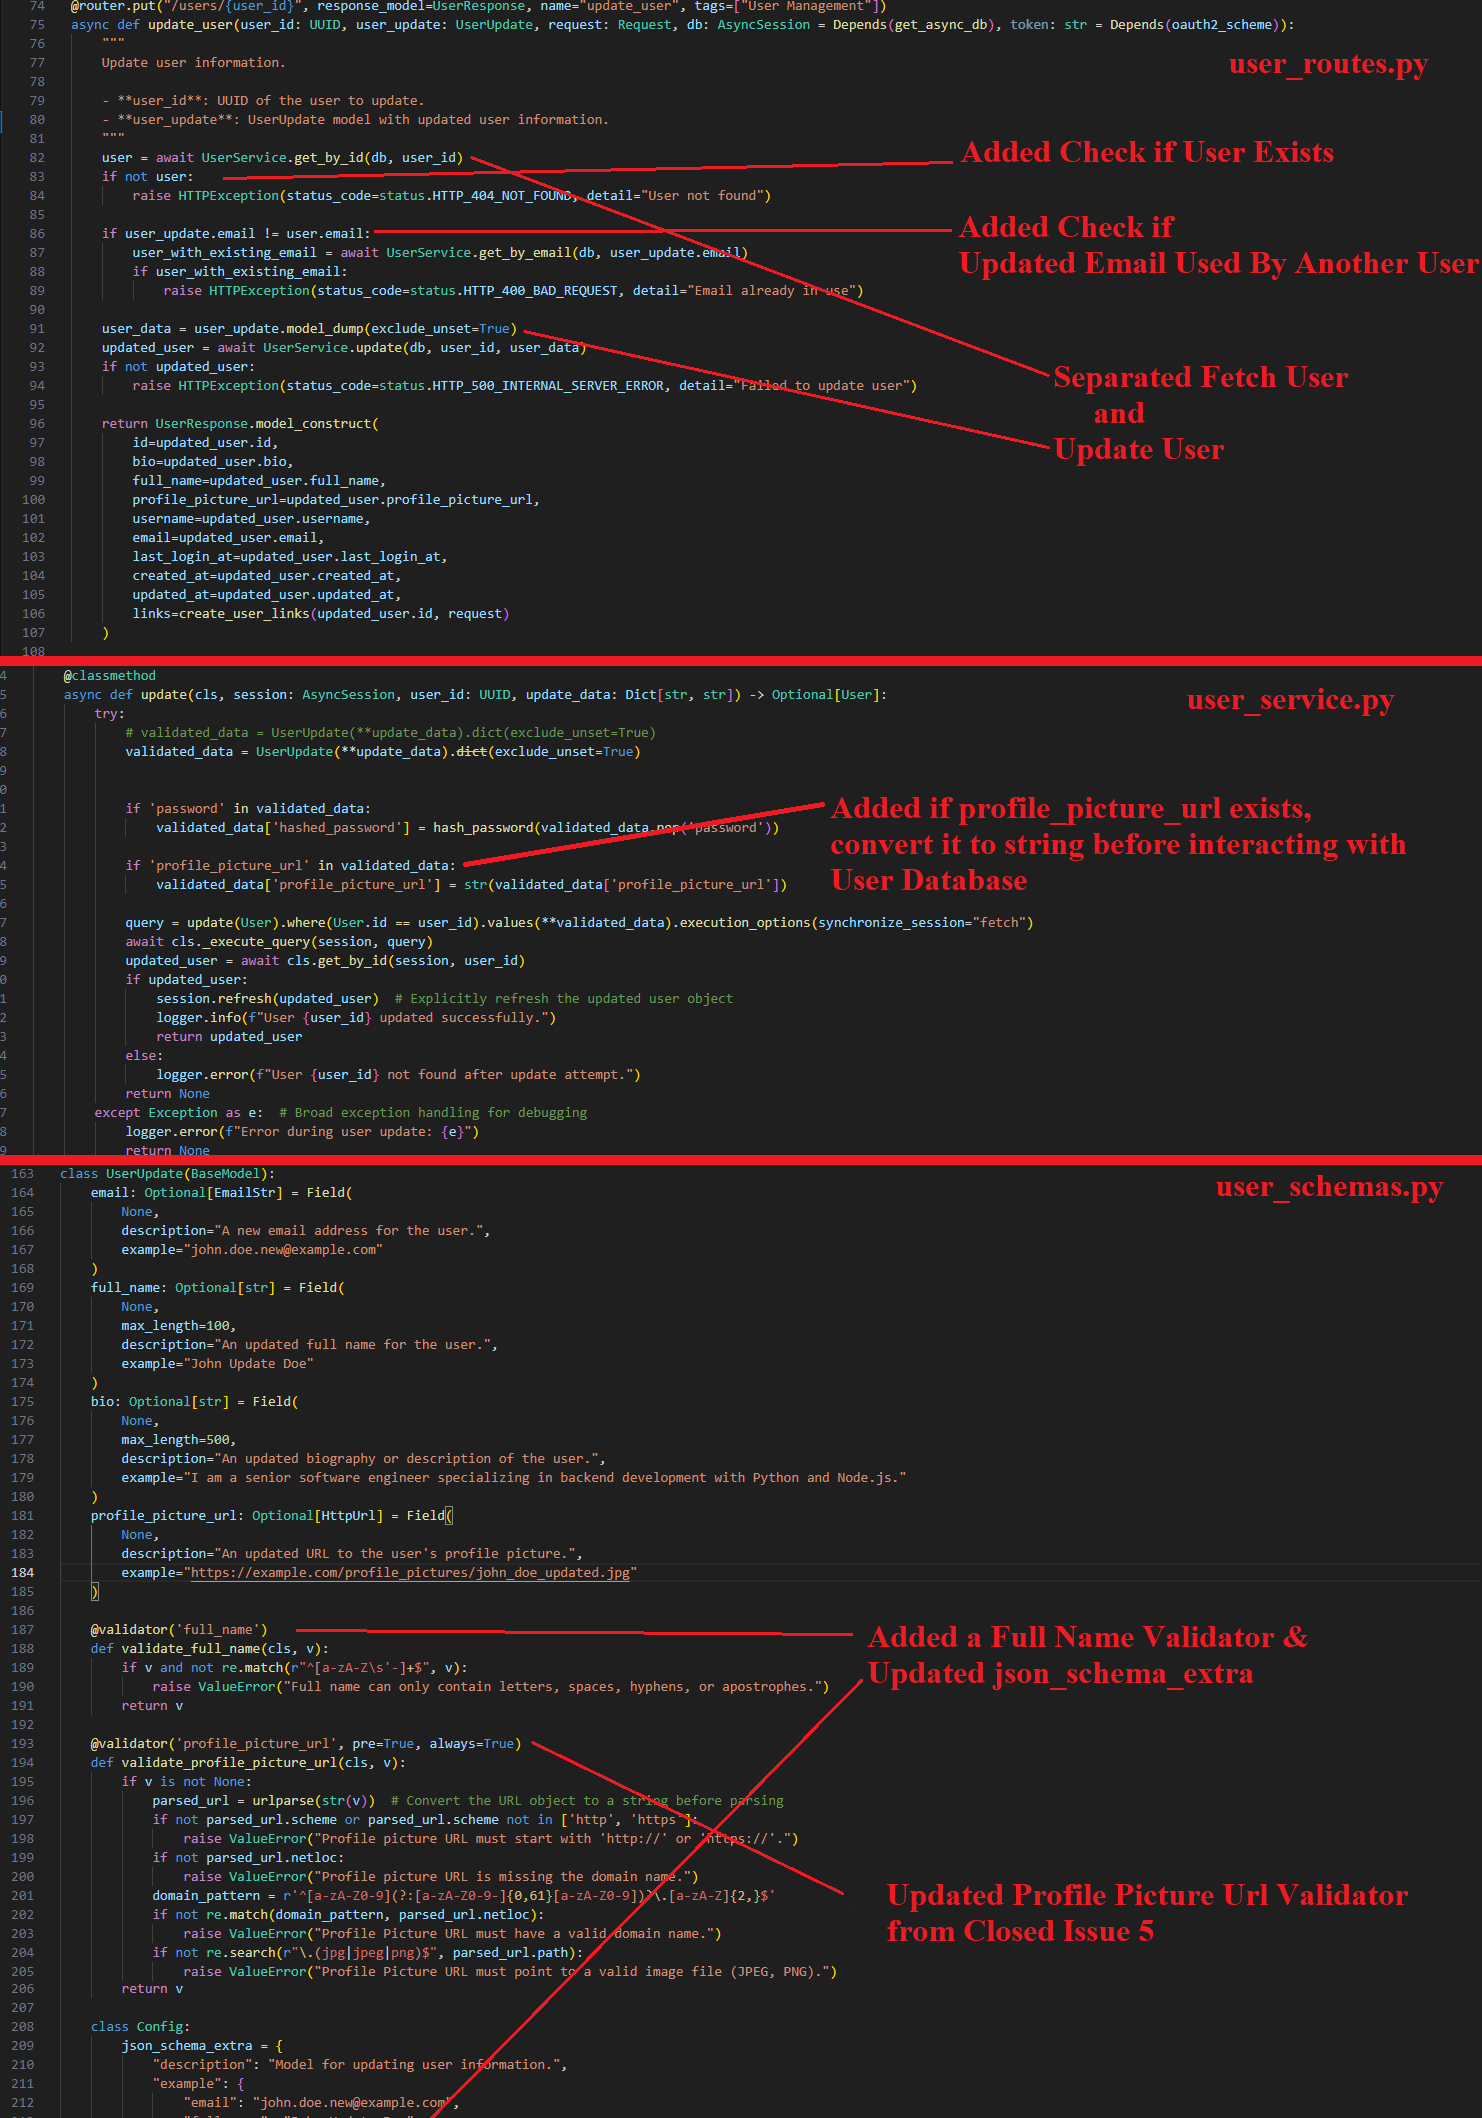
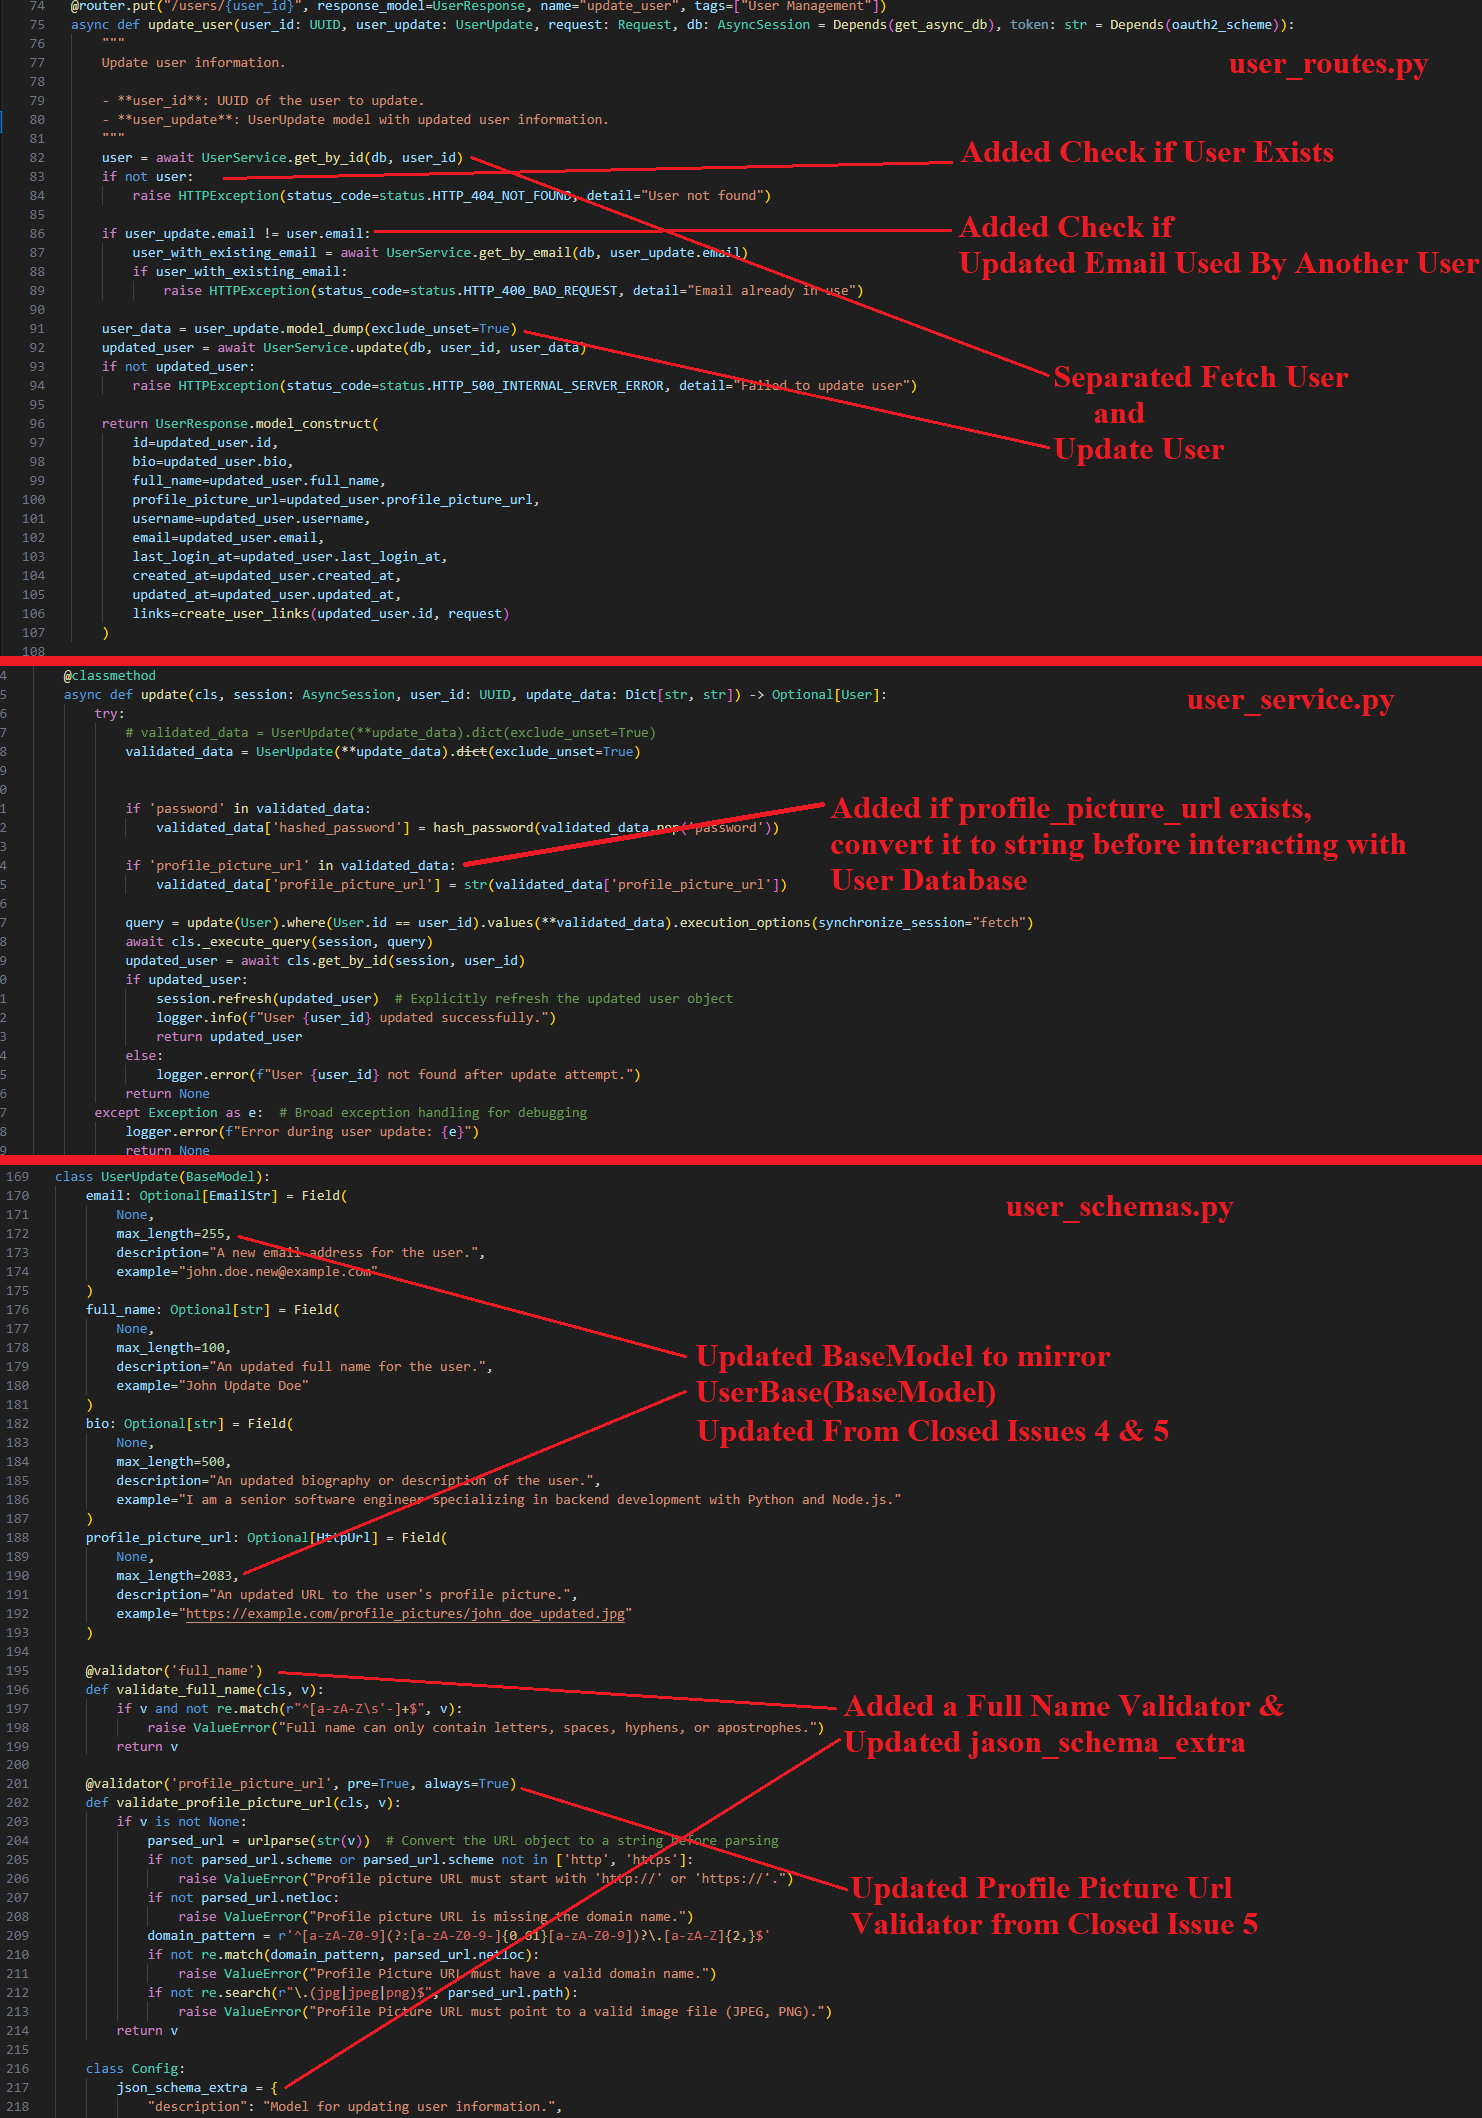
Updated Closed Issue 11 Documentation

diff --git a/readme.md b/readme.md
@@ -147,7 +147,11 @@ In user_schemas.py, UserUpdate:
 
 5. Added a full name validator and updated json_schema_extra to reflect the change.
 
-6. Updated profile picture url validator from Closed Issue 5.
+6. Previously updated profile picture url validator from Closed Issue 5.
+
+7. Updated BaseModel to mirror UserBase(BaseModel) Previous Updates from Closed Issues 4 & 5: Max Length for Email and Profile Picture Url.
+
+PUT/users Update User By ID is working as intended with updates to the database.
 
 ## Dockerhub
 ![Dockerhub Link](submissions/Dockerhub.png) 
